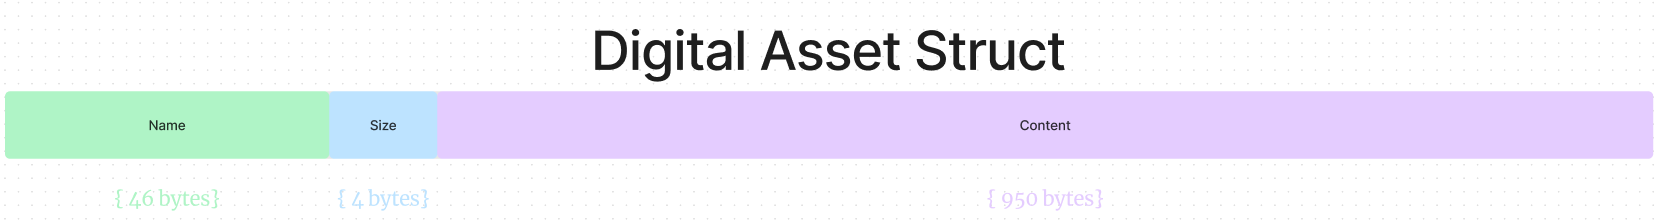
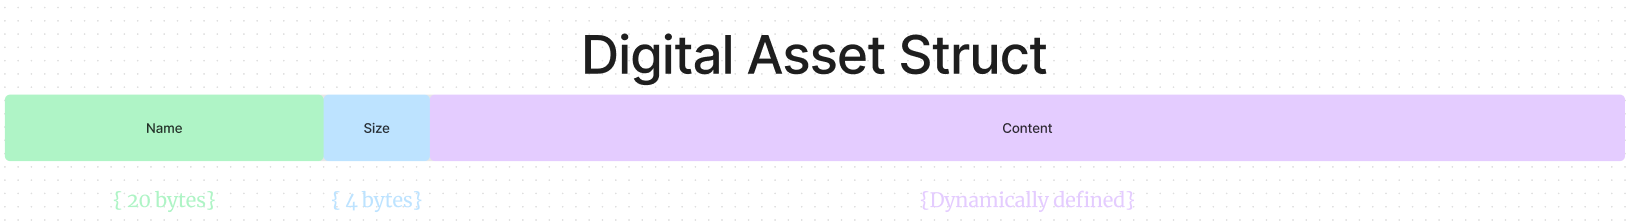
Updated Readme file

diff --git a/README.md b/README.md
@@ -42,28 +42,30 @@ Cada ficheiro adicionado ao TPDV é composto por:
   <i>Fig. 2 - Estrutura de um arquivo no TPDV</i>
 </p>
 
-> **Nota:** O tamanho do conteúdo do ficheiro não é estático.
-
 ### Funções
 
 O programa é dividido em **dois tipos** de funções:
-- Funções "seguras": são executadas dentro do enclave e têm acesso a memória selada.
-  - `unsealed`
-  - `sealed`
-  - `get_sealed_size`
-- Funções "não seguras": são executadas fora do enclave e têm acesso a memória não selada. 
-  - `create_tpdv`
-  - `add_asset`
-  - `list_assets`
-  - `change_password`
-  - `retrieve_asset`
-  - `check_asset_integrity`
+- Funções **seguras**: são executadas dentro do enclave e têm acesso a memória selada.
+- Funções **não seguras**: são executadas fora do enclave e têm acesso a memória não selada. 
+
+| Funções seguras                | Funções não seguras     |
+| ------------------------------ | ----------------------- |
+| `unsealed`                     | `create_tpdv`           |
+| `sealed`                       | `add_asset`             |
+| `get_sealed_size`              | `list_assets`           |
+| `e1_check_password`            | `change_password`       |
+| `e1_add_asset`                 | `retrieve_asset`        |
+| `e1_list_all_assets`           | `check_asset_integrity` |
+| `e1_get_asset_size`            |                         |
+| `e1_retrieve_asset`            |                         |
+| `e1_change_password`           |                         |
+| `e1_get_asset_hash_from_vault` |                         |
 
 #### `create_tpdv`
 
-Esta função é responsável por criar um ficheiro TPDV. O ficheiro é criado com o cabeçalho e o array de ficheiros vazio.
+Esta funcionalidade é responsável por criar um ficheiro TPDV. O ficheiro é criado com o cabeçalho do TPDV e sem arquivos.
 
-A função tem o seguinte header:
+A função no `App.cpp` tem o seguinte cabeçalho:
 ```c
 int create_tpdv(const uint8_t *filename,const uint32_t filename_size,const uint8_t *password,const uint32_t password_size,const uint8_t *creator,const uint32_t creator_size);
 ```
@@ -72,40 +74,73 @@ E devolve `0` em caso de sucesso e `1` em caso de erro.
 
 #### `add_asset`
 
-Esta função é responsável por adicionar um ficheiro ao TPDV. O ficheiro é adicionado ao array de ficheiros e o array é selado.
+Esta funcionalidade é responsável por adicionar um ficheiro ao TPDV. O ficheiro é adicionado ao array TDPV, sendo novamente selado e guardado no ficheiro.
 
-A função tem o seguinte header:
+A função no `App.cpp` tem o seguinte header:
 ```c
 int add_asset(const uint8_t *filename,const uint32_t filename_size,const uint8_t *password,const uint32_t password_size,const uint8_t *asset,const uint32_t asset_size);
 ```
 
 E devolve `0` em caso de sucesso e `1` em caso de erro.
 
+Para manipular o ficheiro TPDV é feita uma ECALL (chamada para dentro do enclave) com a função `e1_add_asset`. Esta função é responsável por adicionar o arquivo ao TDPV dando *unseal* ao conteúdo do TPDV, adicionando o ficheiro e *seal* o conteúdo do TPDV.
+
+Este fluxo é ilustrado usando a seguinte figura:
+
+<p align="center">
+  <img src="img/add_assets.png" alt="Adicionar um ficheiro ao TPDV" width="1000"/>
+</p>
+<p align="center">
+  <i>Fig. 3 - Adicionar um ficheiro ao TPDV</i>
+</p>
+
 #### `list_assets`
 
-Esta função é responsável por listar os ficheiros no TPDV. A função desencripta o array de ficheiros e imprime o nome de cada ficheiro.
+Esta funcionalidade é responsável por enumerar todos os ficheiros no TPDV. A função dá *unseal* ao TPDV e lê o conteúdo do array, enviando o resultado para o `stdout`.
 
-A função tem o seguinte header:
+A função no `App.cpp` tem o seguinte header:
 ```c
 int list_assets(const uint8_t *filename, const uint8_t *password);
 ```
 
 E devolve `0` em caso de sucesso e `1` em caso de erro.
 
+Para dar *unseal* ao TPDV de forma segura, é feita uma ECALL para a função `e1_list_all_assets`. Esta função é responsável por dar *unseal* ao conteúdo do TPDV e devolver o conteúdo.
+
+Este fluxo é ilustrado usando a seguinte figura:
+
+<p align="center">
+  <img src="img/list_assets.png" alt="Listar os ficheiros no TPDV" width="1000"/>
+</p>
+<p align="center">
+  <i>Fig. 4 - Listar os ficheiros no TPDV</i>
+</p>
+
 #### `change_password`
 
-Esta função é responsável por alterar a password do TPDV. A função dá *unseal* o array de ficheiros, altera a password e *seal* o array.
+Esta funcionalidade é responsável por alterar a password do TPDV. A função dá *unseal* ao TPDV, verifica a password antiga, altera a password, dá *seal* ao TPDV e guarda o conteúdo no ficheiro.
 
-A função tem o seguinte header:
+A função no `App.cpp` tem o seguinte header:
 ```c
 int change_password(const uint8_t *filename, const uint8_t *old_password, const uint8_t *new_password);
 ```
 
 E devolve `0` em caso de sucesso e `1` em caso de erro.
 
+Para alterar a password de forma segura, é feita uma ECALL para a função `e1_change_password`. Esta função é responsável por dar *unseal* ao conteúdo do TPDV, verificar a password antiga, alterar a password, *seal* o conteúdo do TPDV e guardar o conteúdo no ficheiro.
+
+Este fluxo é ilustrado usando a seguinte figura:
+
+<p align="center">
+  <img src="img/change_password.png" alt="Alterar a password do TPDV" width="1000"/>
+</p>
+<p align="center">
+  <i>Fig. 5 - Alterar a password do TPDV</i>
+</p>
+
 #### `check_asset_integrity`
 
-Esta função é responsável por verificar a integridade de um ficheiro no TPDV. A função dá lê o conteúdo do ficheiro, dá *unseal* ao TPDV e verifica se o hash do ficheiro corresponde ao hash do conteúdo guardado no TPDV.
+Esta funcionalidade é responsável por verificar a integridade de um ficheiro no TPDV. A função dá lê o conteúdo do ficheiro, dá *unseal* ao TPDV e verifica se o hash do ficheiro corresponde ao hash do conteúdo guardado no TPDV.
 
 A função tem o seguinte header:
 ```c
@@ -114,9 +149,13 @@ int check_asset_integrity(const uint8_t *filename, const uint8_t *password, cons
 
 E devolve `0` em caso de sucesso e `1` em caso de erro.
 
+Para verificar a integridade de um ficheiro de forma segura, é feita uma ECALL para a função `e1_get_asset_hash_from_vault`. Esta função é responsável por dar *unseal* ao conteúdo do TPDV, procurar o ficheiro e devolver o hash do ficheiro.
+
+Este fluxo é ilustrado usando a seguinte figura:
+
 #### `retrieve_asset`
 
-Esta função é responsável por extrair um ficheiro do TPDV. A função dá *unseal* ao TPDV, procura o ficheiro e devolve o conteúdo do ficheiro.
+Esta funcionalidade é responsável por extrair um ficheiro do TPDV. A função dá *unseal* ao TPDV, procura o ficheiro e devolve o conteúdo do ficheiro.
 
 A função tem o seguinte header:
 ```c
@@ -125,7 +164,13 @@ int retrieve_asset(const uint8_t *filename, const uint8_t *password, const uint8
 
 E devolve `0` em caso de sucesso e `1` em caso de erro.
 
-### Fluxo de execução da aplicação
+Para extrair um ficheiro de forma segura, é feita uma ECALL para a função `e1_retrieve_asset`. Esta função é responsável por dar *unseal* ao conteúdo do TPDV, procurar o ficheiro e devolver o conteúdo.
+
+Este fluxo é ilustrado usando a seguinte figura:
+
+### `clone_tpdv`
+
+Por fazer...
 
 ## Compilação
 
